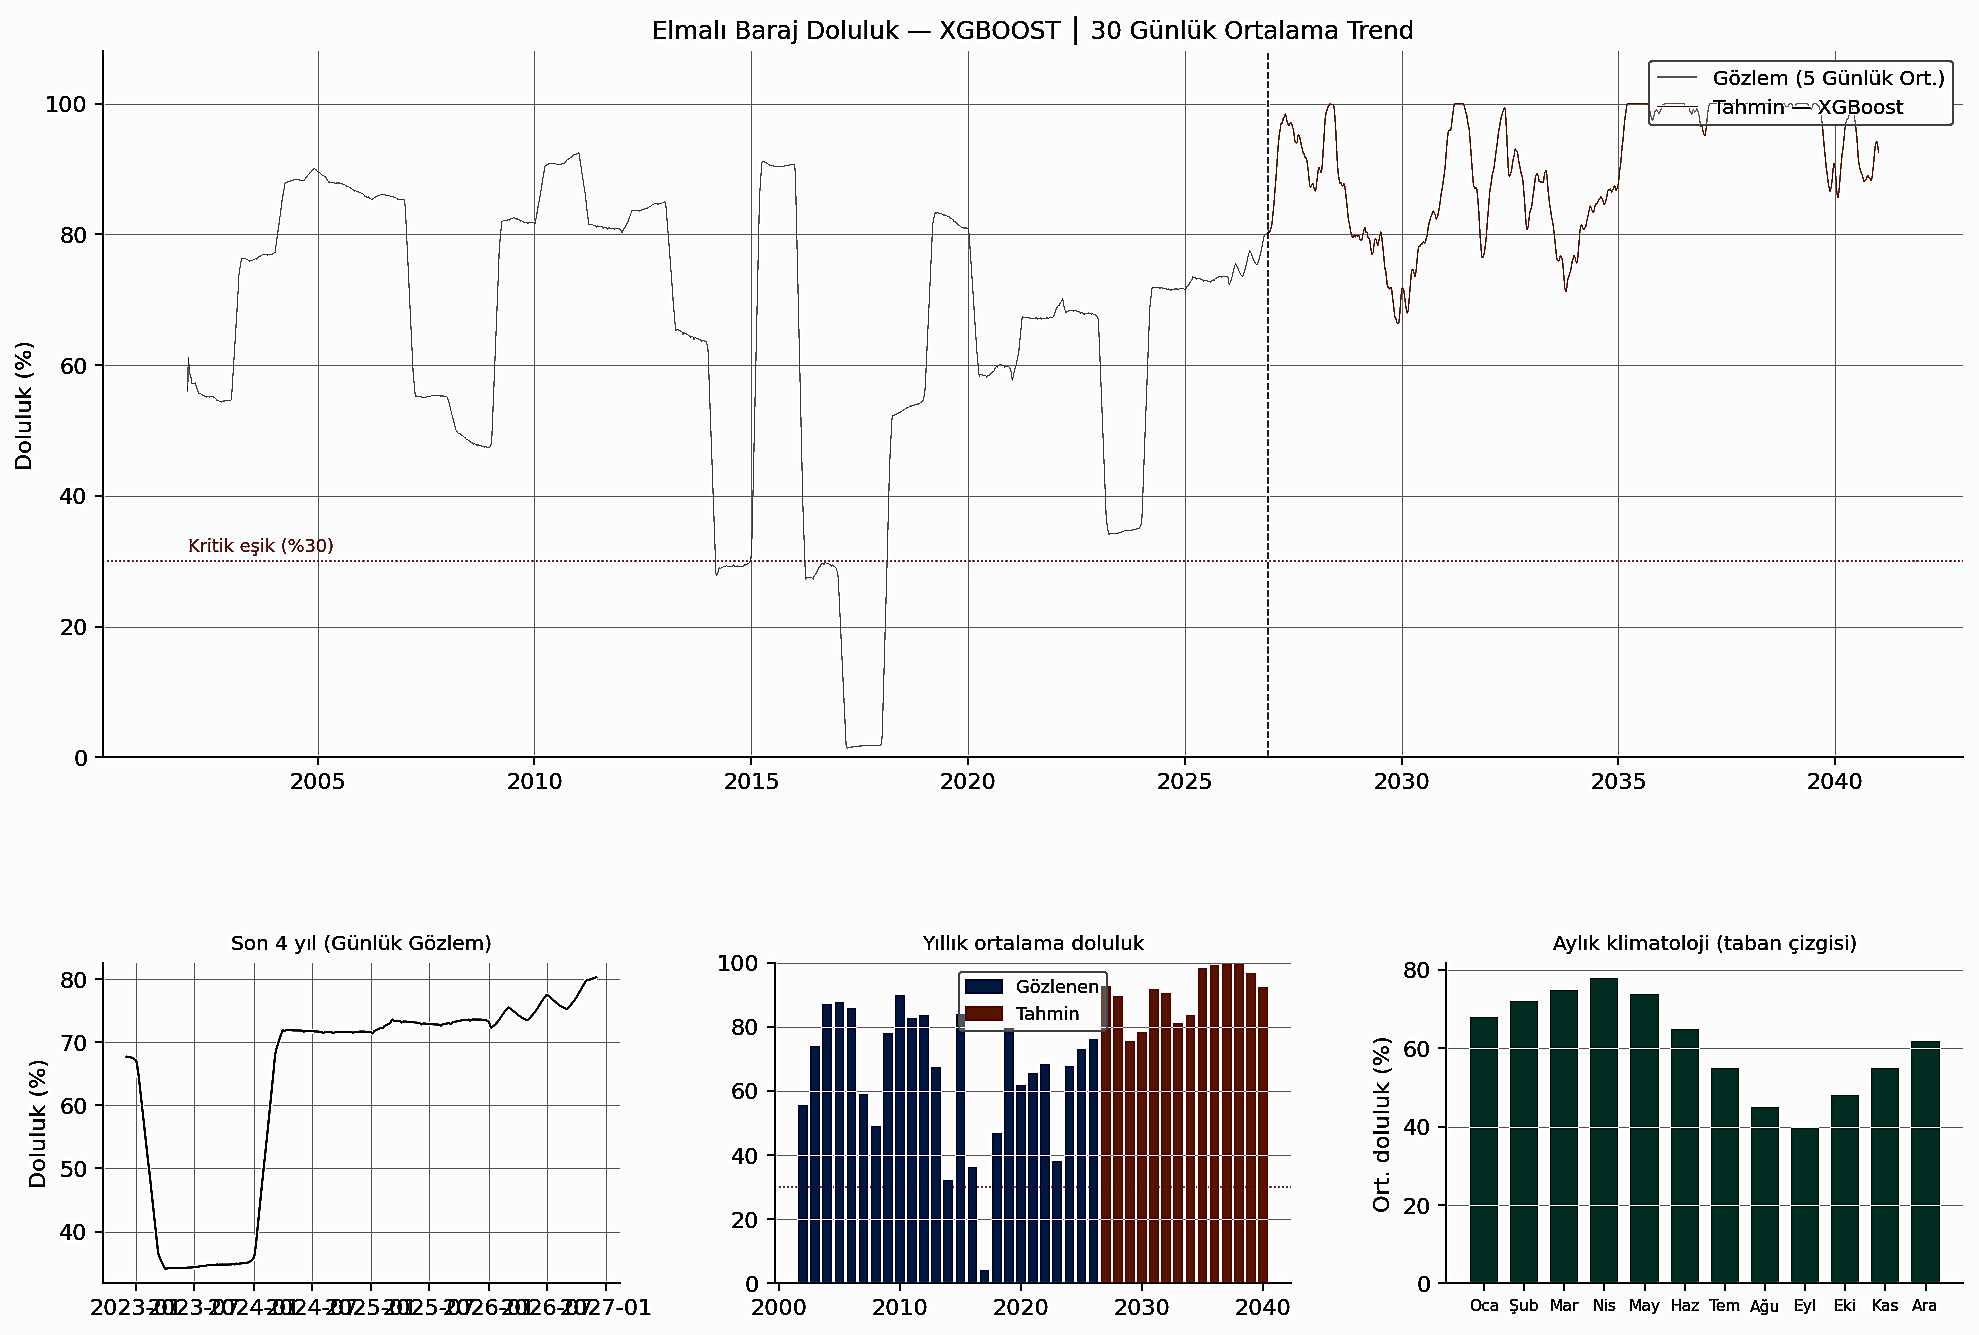
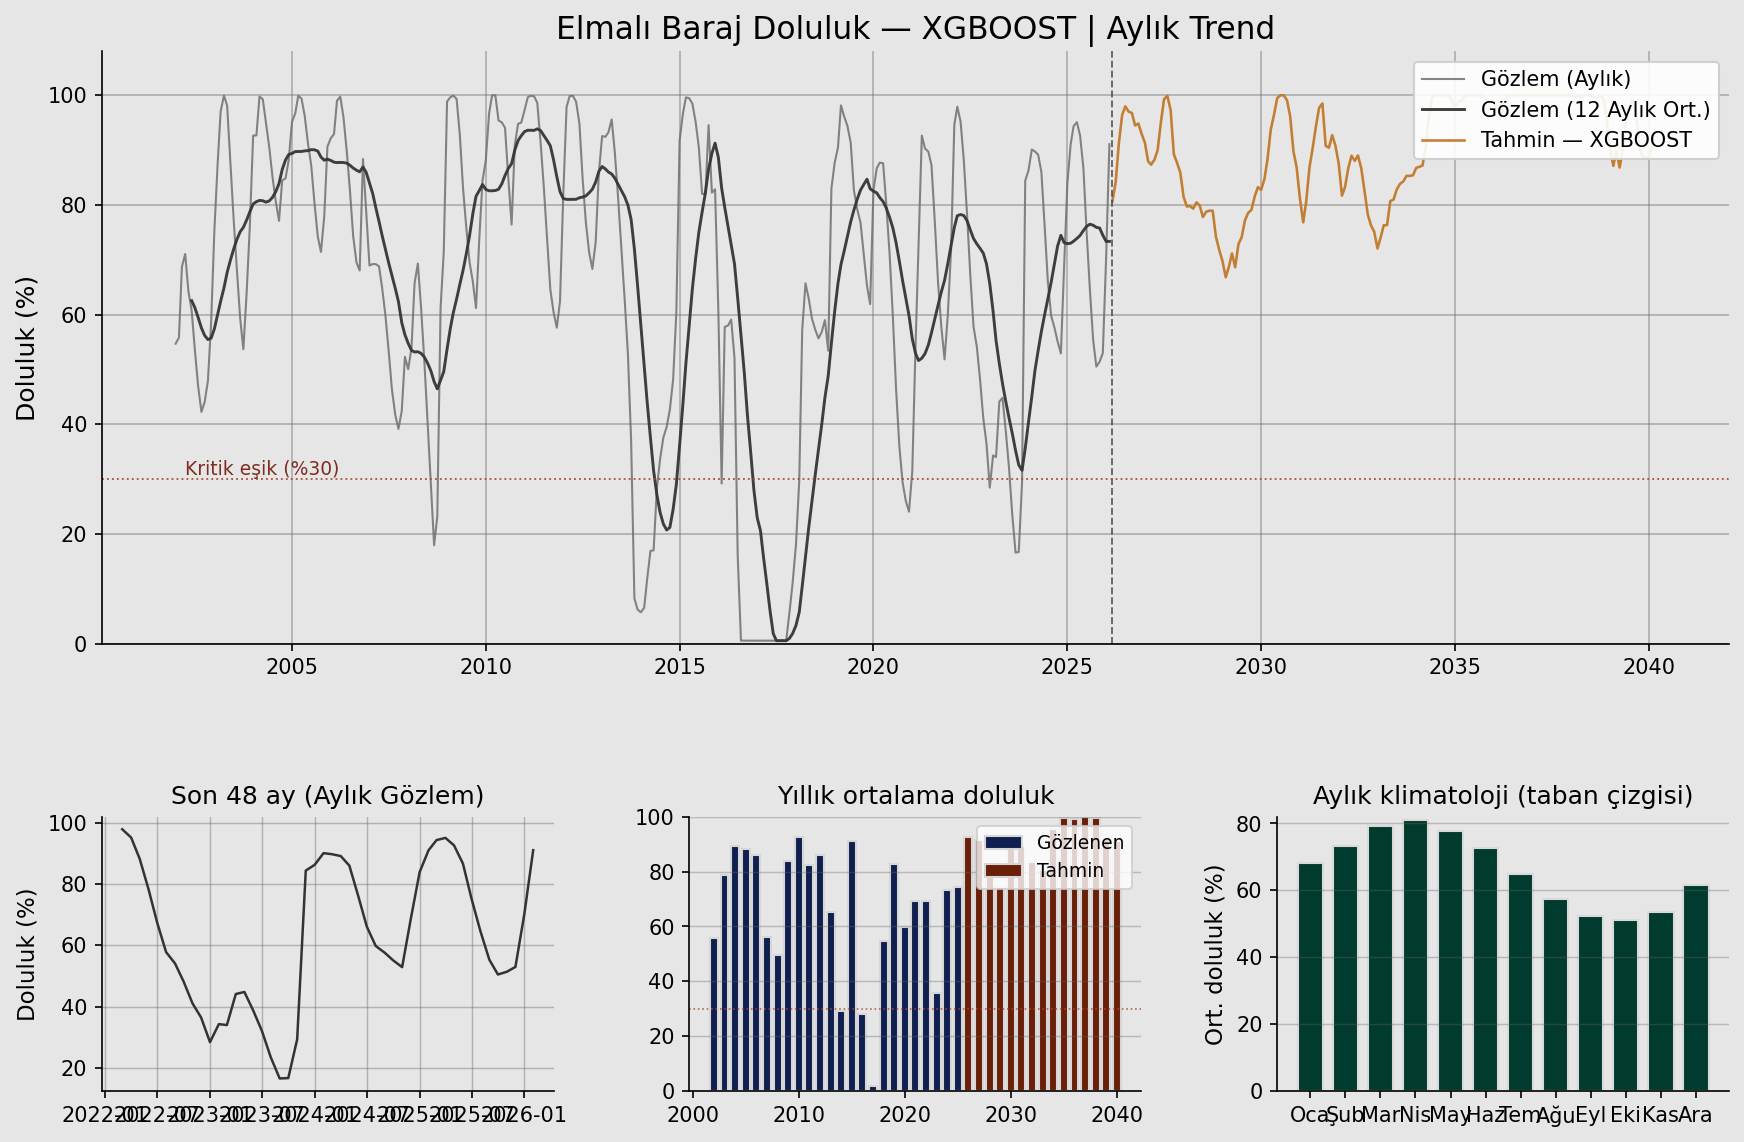
Elmali model grafiklerini aylik trende cevir ve aylik seri filtresini duzelt

diff --git a/baraj_web/elmali.html b/baraj_web/elmali.html
@@ -941,7 +941,12 @@ const ELMALI_OBS = (typeof window.ELMALI_OBSERVED_MONTHLY !== 'undefined' && win
   : null;
 
 const MONTHLY_SERIES = (ELMALI_OBS && Array.isArray(ELMALI_OBS.monthly))
-  ? ELMALI_OBS.monthly.filter((d) => d && d.is_full_month).map((d) => ({
+  ? ELMALI_OBS.monthly.filter((d) => (
+      d
+      && d.is_full_month
+      && Number(d.month_days || 0) >= 28
+      && Number(d.obs_days || 0) >= 28
+    )).map((d) => ({
       date: d.date,
       fill_avg_pct: Number(d.fill_avg_pct),
       rain_total_mm: Number(d.rain_total_mm),
@@ -1425,7 +1430,12 @@ function interpByY(curve, y, fallback = NaN) {
 }
 
 const ELMALI_MONTHLY_FULL = (ELMALI_OBS && Array.isArray(ELMALI_OBS.monthly))
-  ? ELMALI_OBS.monthly.filter((d) => d && d.is_full_month)
+  ? ELMALI_OBS.monthly.filter((d) => (
+      d
+      && d.is_full_month
+      && Number(d.month_days || 0) >= 28
+      && Number(d.obs_days || 0) >= 28
+    ))
   : [];
 const ELMALI_FILL_RESERVE_CURVE = buildMonotonicCurve(ELMALI_MONTHLY_FULL, 'fill_avg_pct', 'reserve_avg_m3');
 const ELMALI_FILL_LEVEL_CURVE = buildMonotonicCurve(ELMALI_MONTHLY_FULL, 'fill_avg_pct', 'level_avg_m');
@@ -1481,7 +1491,13 @@ function runoffFromEt0AndStorage(et0Pct, fillPct) {
 
 const ELMALI_RUNOFF = (() => {
   const src = (ELMALI_OBS && Array.isArray(ELMALI_OBS.monthly))
-    ? ELMALI_OBS.monthly.filter((d) => d && d.is_full_month && Number.isFinite(Number(d.fill_avg_pct)))
+    ? ELMALI_OBS.monthly.filter((d) => (
+        d
+        && d.is_full_month
+        && Number(d.month_days || 0) >= 28
+        && Number(d.obs_days || 0) >= 28
+        && Number.isFinite(Number(d.fill_avg_pct))
+      ))
     : [];
   if (src.length < 24) return 0.28;
   const cands = [];
@@ -2515,7 +2531,7 @@ document.addEventListener('DOMContentLoaded', () => {
     });
   });
 
-  const galleryVersion = '20260326-3';
+  const galleryVersion = '20260326-4';
   const modal = document.getElementById('img-modal');
   const modalImg = document.getElementById('img-modal-image');
   const modalCap = document.getElementById('img-modal-caption');
